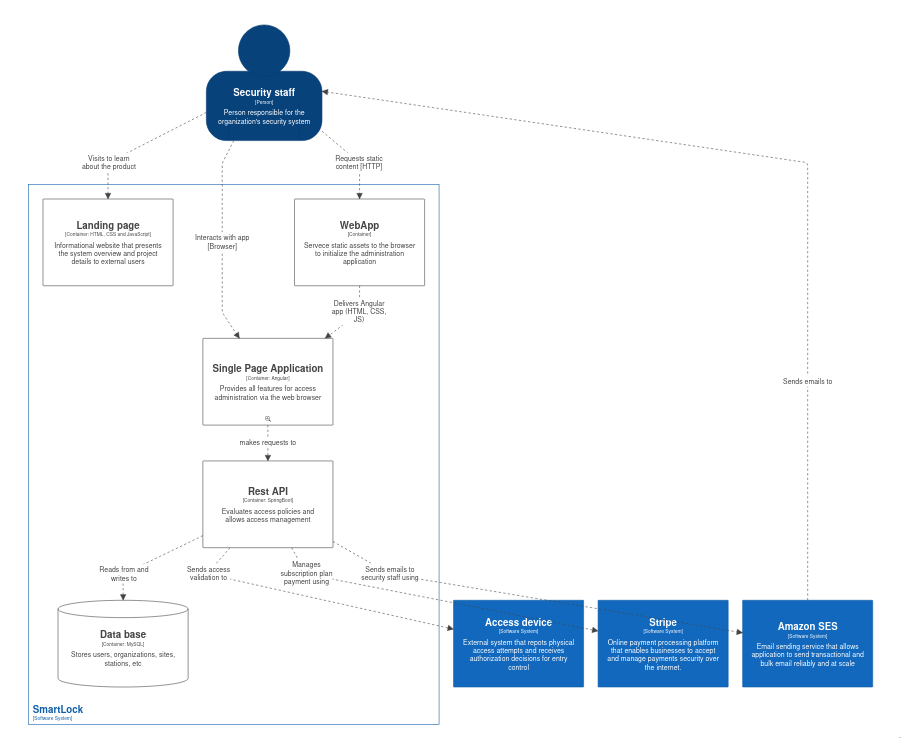
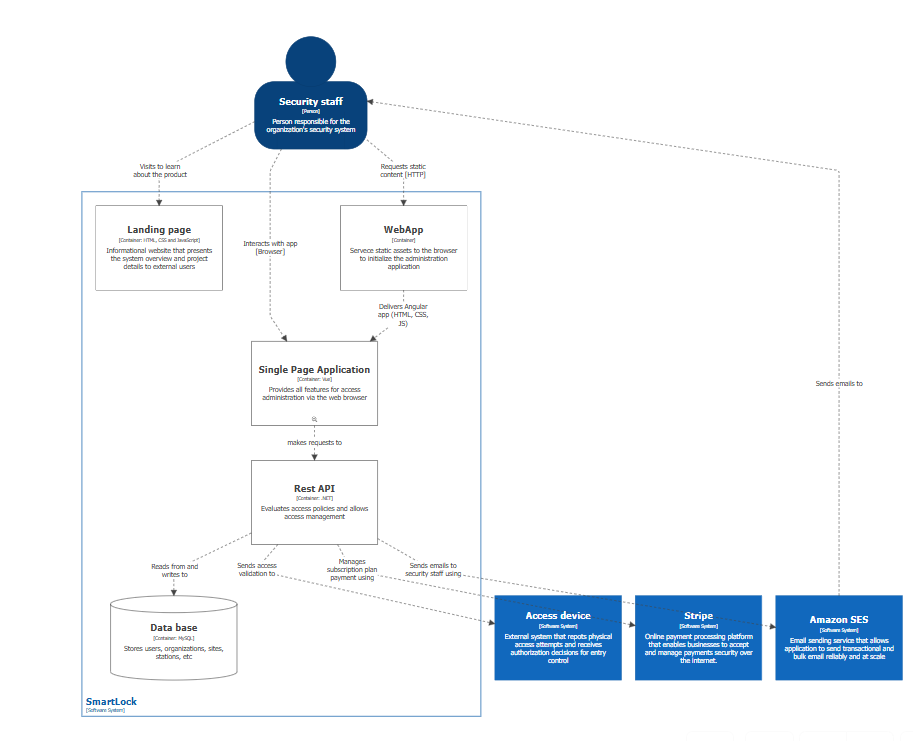
docs: images c4 container & components

diff --git a/README.md b/README.md
@@ -2196,7 +2196,7 @@ El despliegue del backend web service se realizó en Azure por su simplicidad y 
 #### 5.2.3.8. Team Collaboration Insights for Sprint Review
 Durante el transcurso de este sprint, todos los miembros participaron de forma activa y constante en la creación de las tareas asignadas. A continuación todos los analíticos que nos proporciona Github, en su apartado de Insights, sobre la colaboración del equipo durante el Sprint 1:
 
-<img src="/Resources/Chapter5/sprint3/collab-insights1.png"/>
+<img src="Resources/Chapter5/sprint3/collab-insights1.png"/>
 
 ## 5.3. Validation Interviews.
 ### 5.3.1. Diseño de Entrevistas.
@@ -2231,9 +2231,9 @@ Para la parte práctica en la Web Application, pedir al participante que realice
 | Nombre | Fernando Güere Calero |
 | Edad | 21 |
 | Distrito | La Molina |
-| Segmento | Organizadora (Eventos) |
+| Segmento | Personal de Seguridad (Eventos) |
 | Rol | Pesonal de Seguridad |
-| Fecha | 19-06-26 |
+| Fecha | 20-06-26 |
 | Medio | Video (Stream) |
 | Captura | <img src="Resources/Interview/entrevista.jpg" alt="Captura" width="750" /> |
 | Enlace | https://upcedupe-my.sharepoint.com/:v:/g/personal/u20241a860_upc_edu_pe/IQCNUbOzjMlbR4976PjOPObJAeAsCJ4tOJdy-Tj5dztkVeo?nav=eyJyZWZlcnJhbEluZm8iOnsicmVmZXJyYWxBcHAiOiJPbmVEcml2ZUZvckJ1c2luZXNzIiwicmVmZXJyYWxBcHBQbGF0Zm9ybSI6IldlYiIsInJlZmVycmFsTW9kZSI6InZpZXciLCJyZWZlcnJhbFZpZXciOiJNeUZpbGVzTGlua0NvcHkifX0&e=ZhMJ6W |